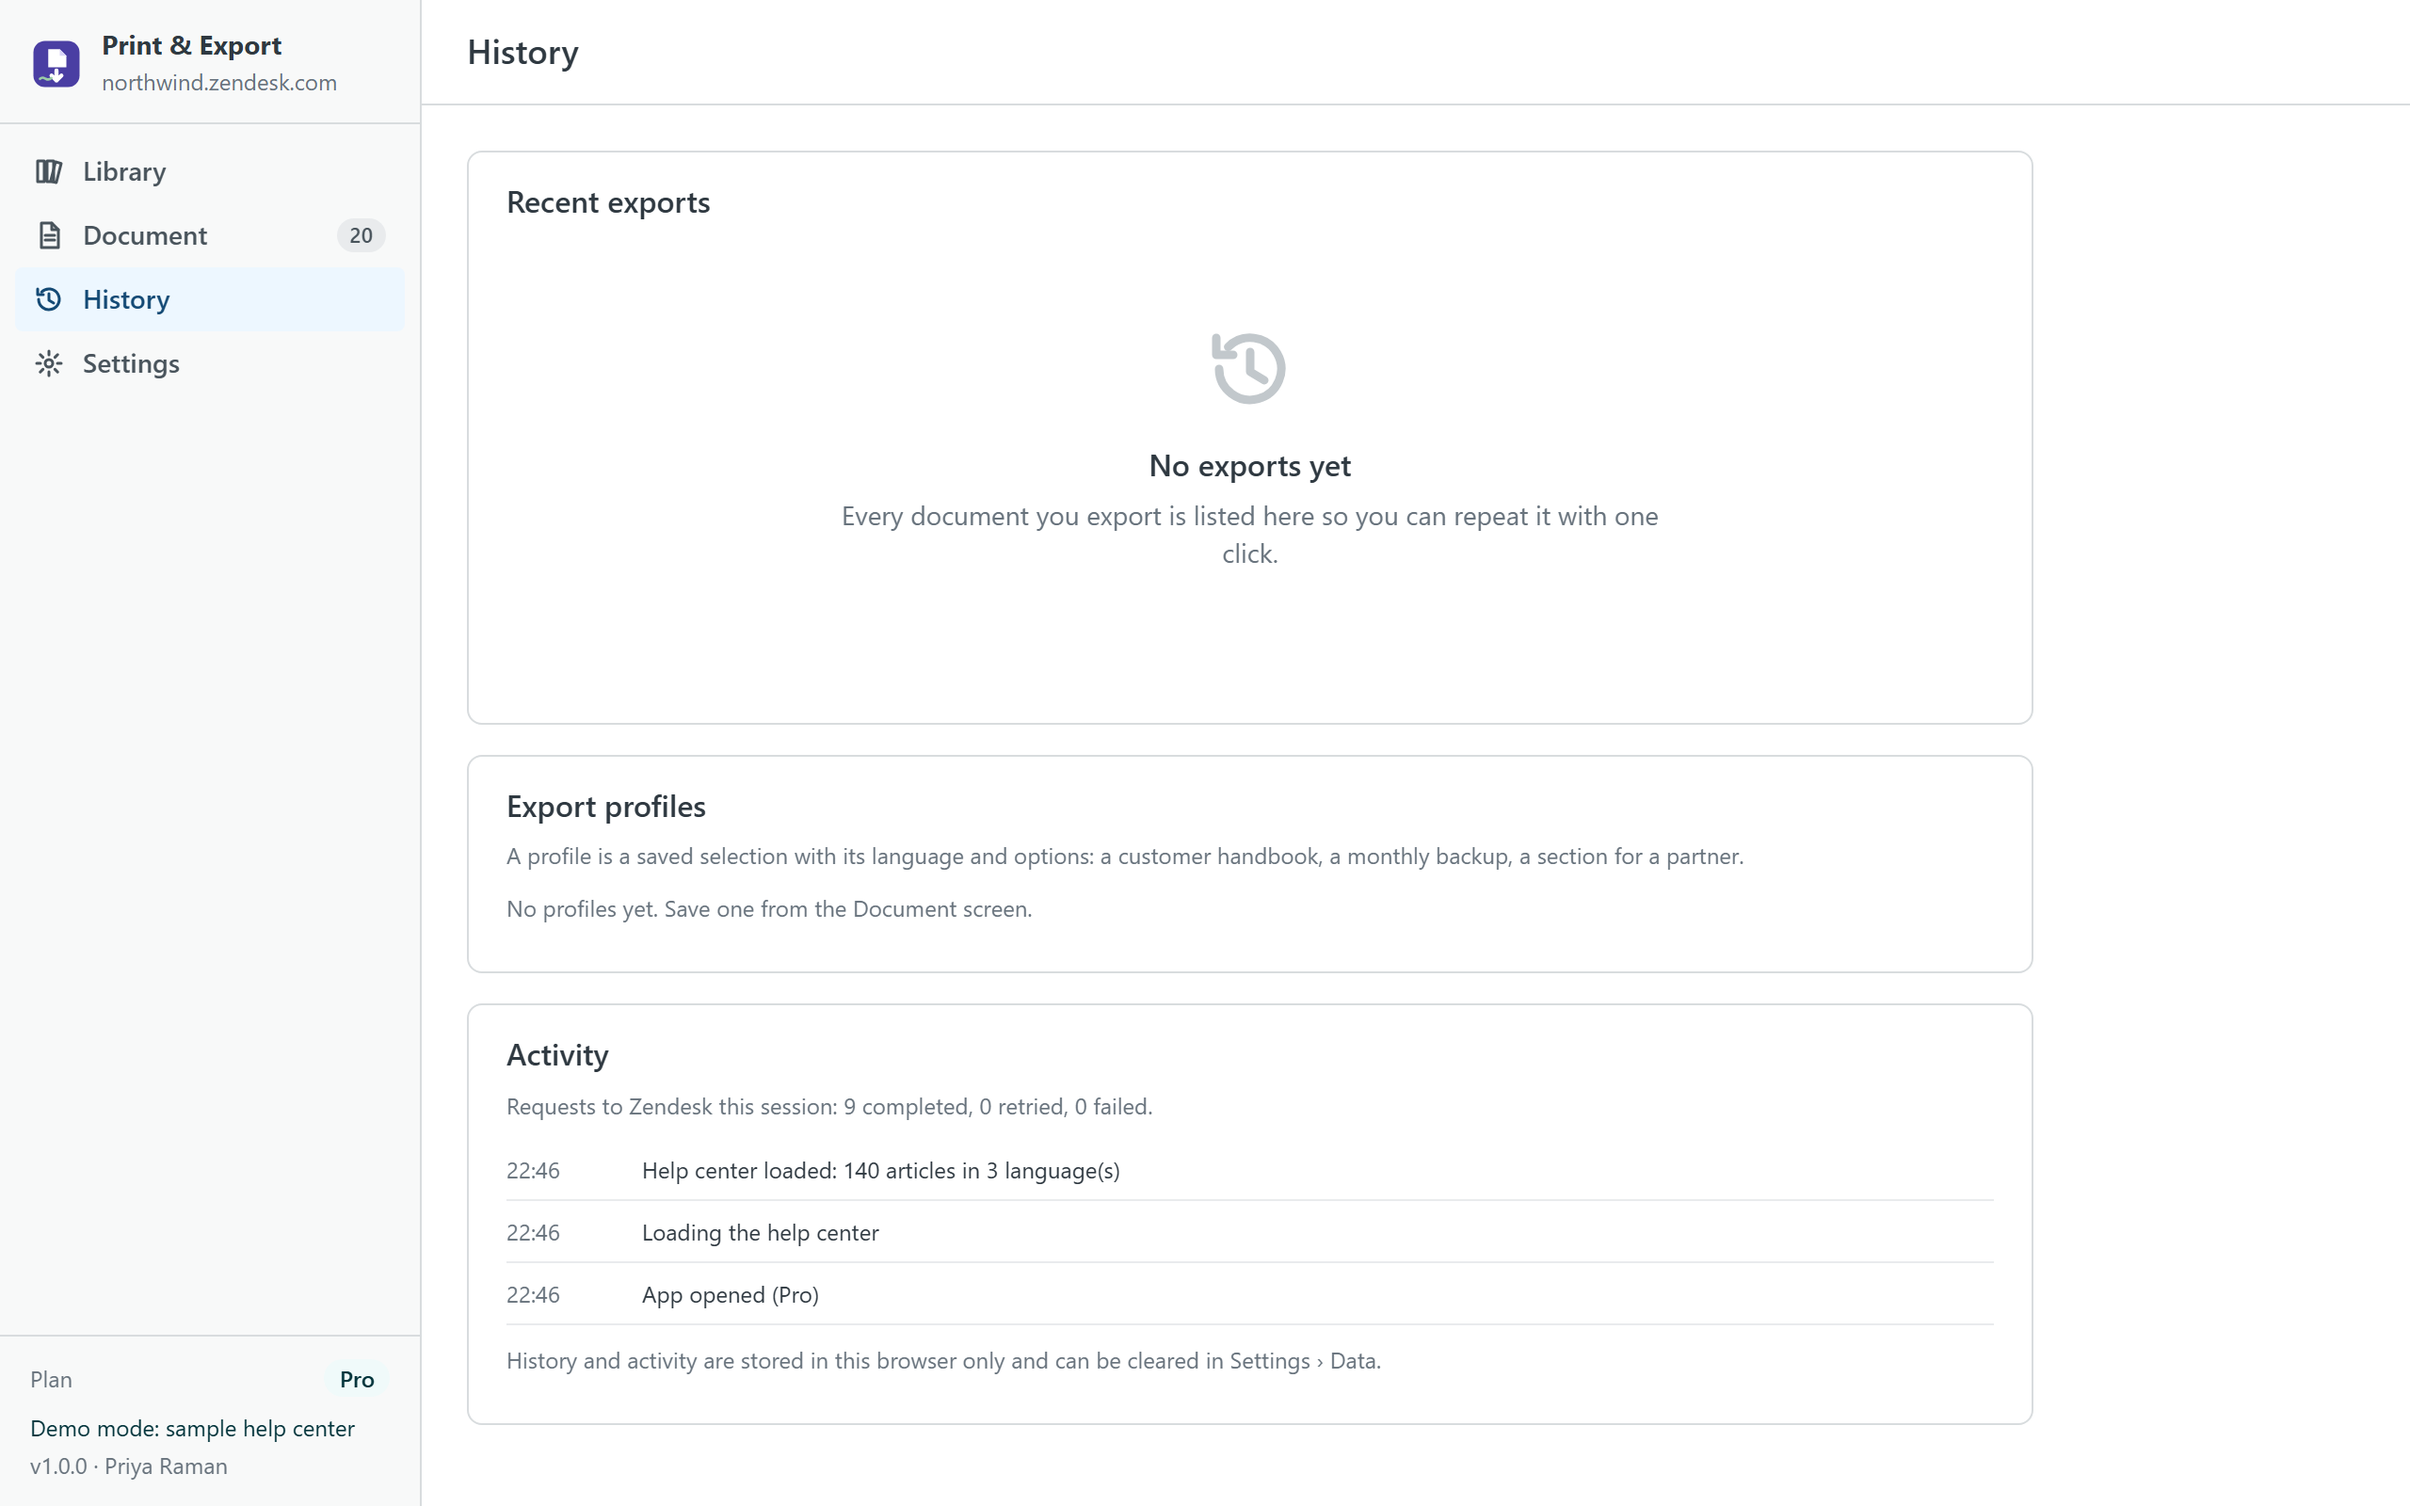
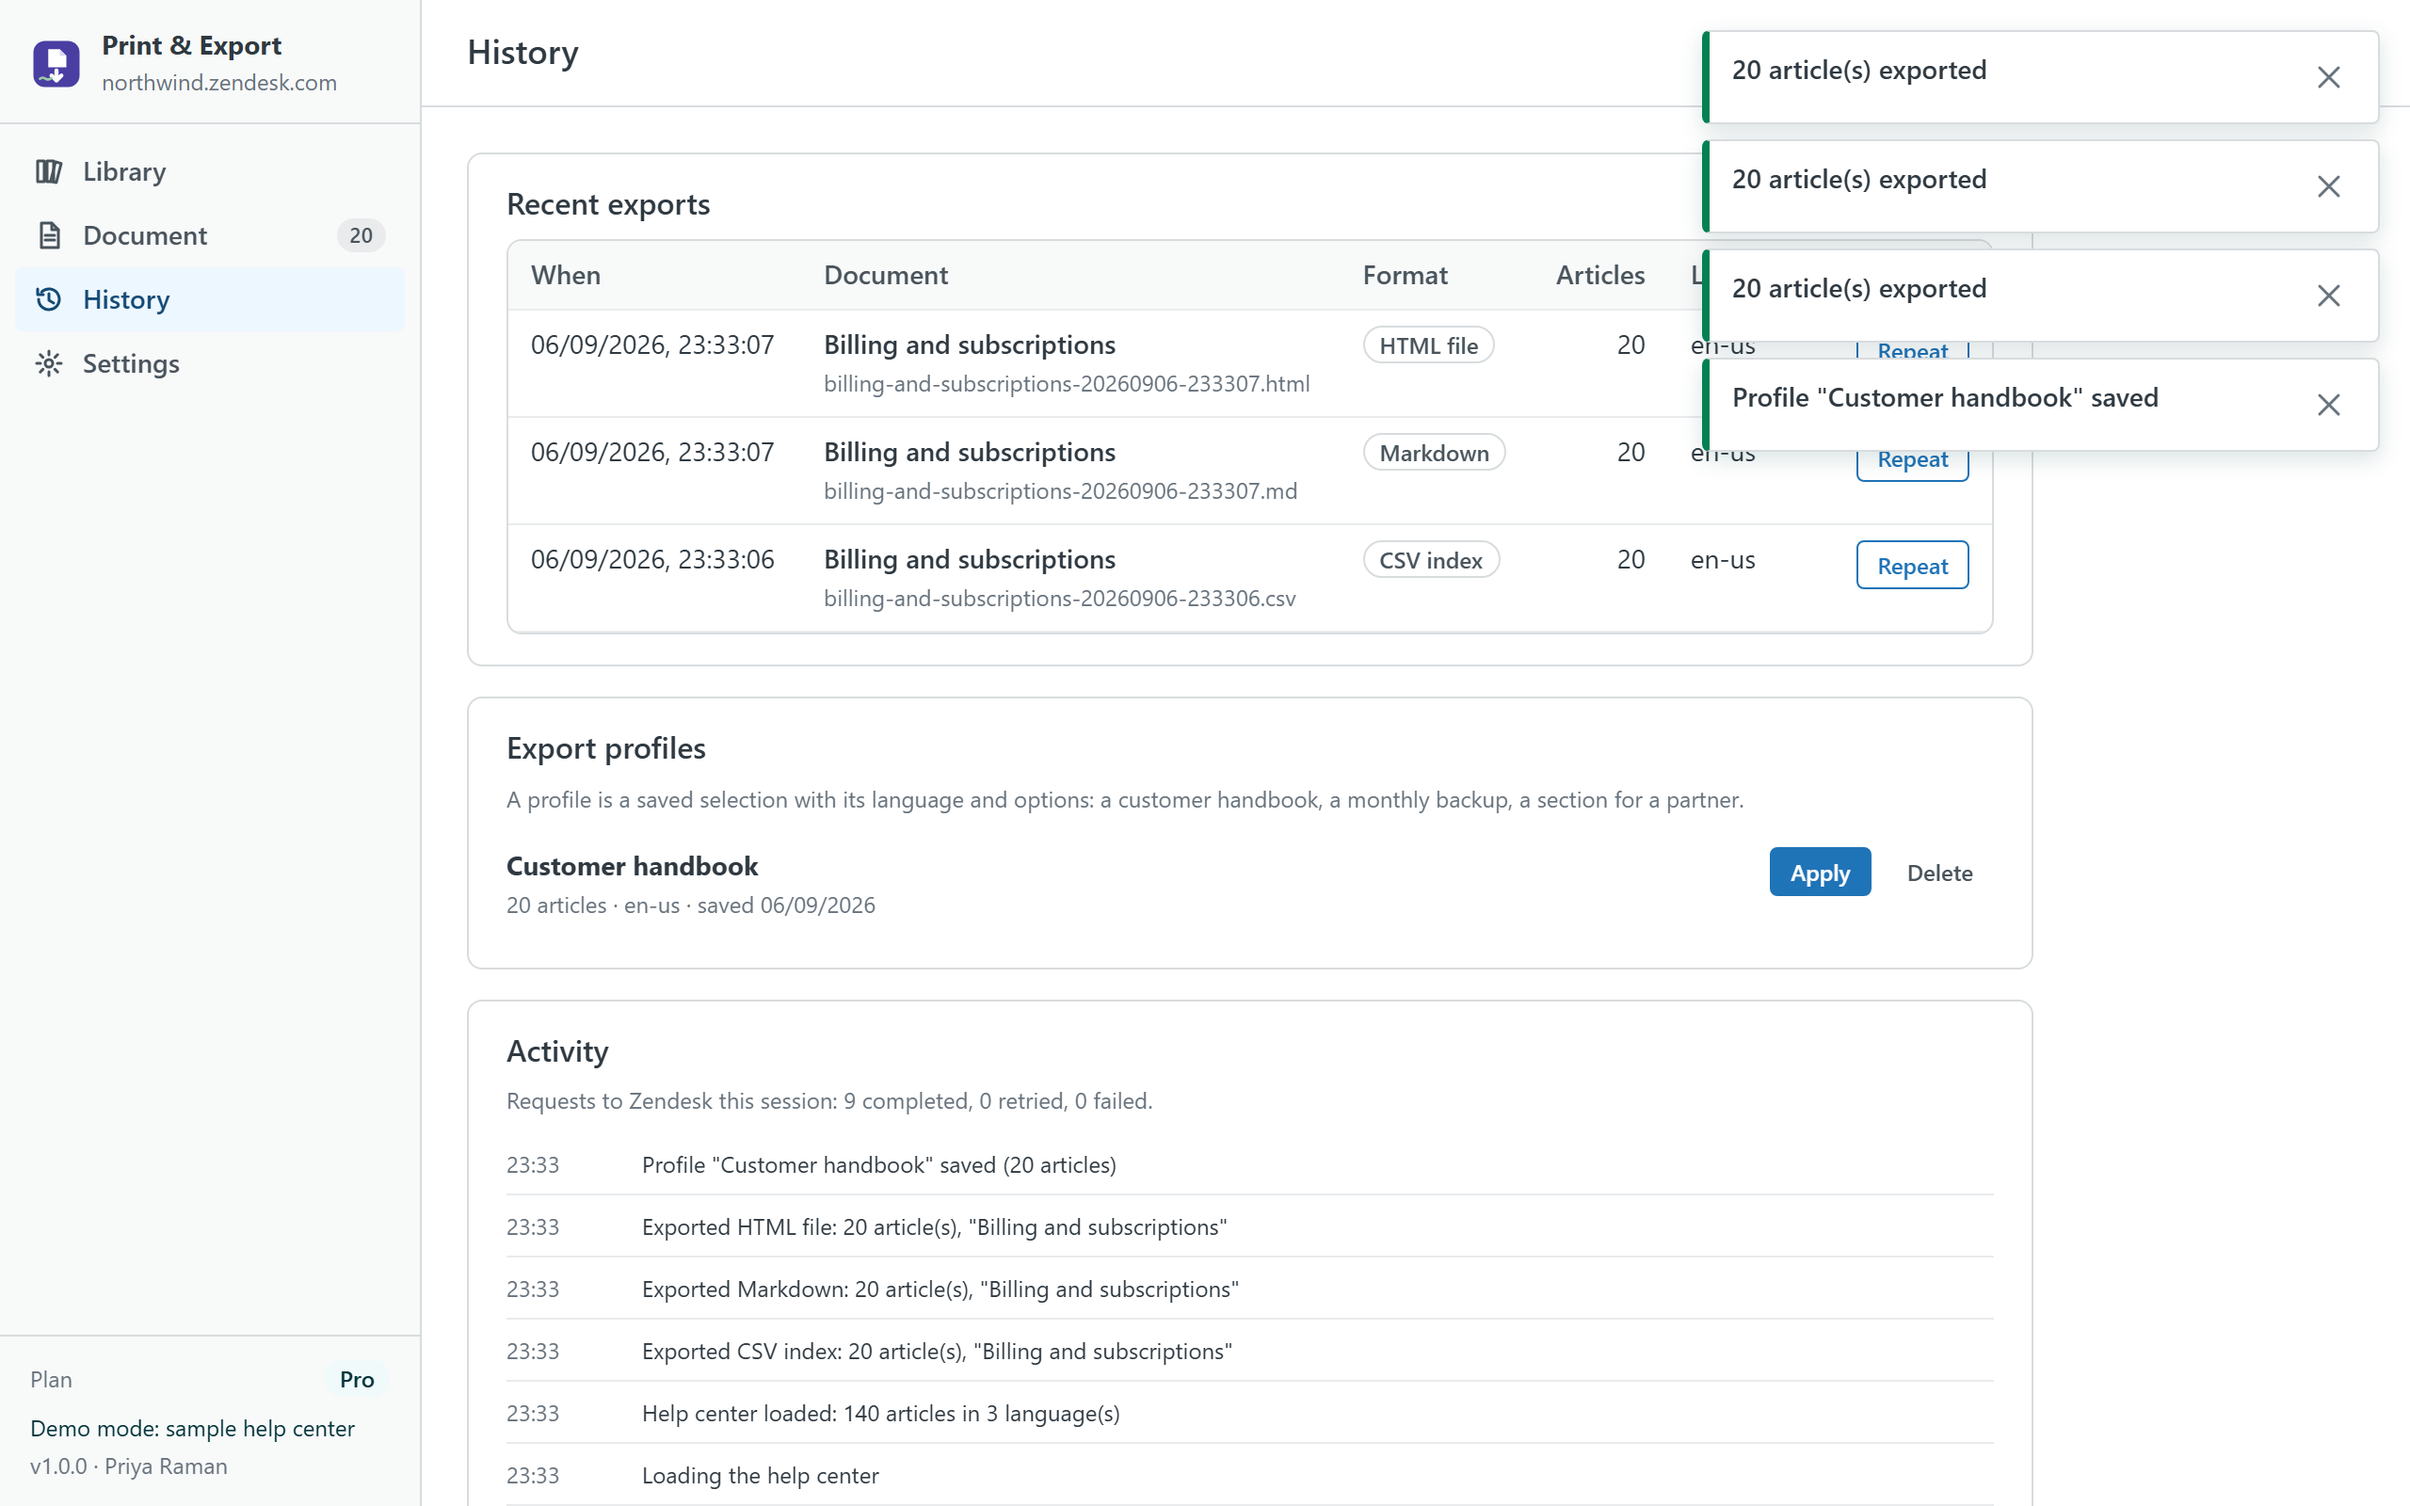
Add Help Center Find & Replace page, cross-links and sitemap entry

diff --git a/find-replace/index.html b/find-replace/index.html
@@ -1,0 +1,116 @@
+<!doctype html>
+<html lang="en">
+<head>
+<meta charset="utf-8">
+<meta name="viewport" content="width=device-width, initial-scale=1">
+<title>Help Center Find &amp; Replace, bulk find and replace for Zendesk articles | Help Center Doctor</title>
+<meta name="description" content="Help Center Find & Replace searches and replaces text, links and images across every Zendesk help center article and language, with a preview of each change, a snapshot before writing and one-click undo.">
+<link rel="stylesheet" href="../assets/site.css">
+<link rel="icon" href="../assets/logo.svg" type="image/svg+xml">
+<link rel="canonical" href="https://helpcenterdoctor.app/find-replace/">
+<meta property="og:type" content="website">
+<meta property="og:title" content="Help Center Find &amp; Replace for Zendesk">
+<meta property="og:description" content="Find and replace text, links and images in every article, with preview and undo. Free for small runs, Pro for whole help centers.">
+<meta property="og:image" content="https://helpcenterdoctor.app/assets/logo.png">
+<meta property="og:url" content="https://helpcenterdoctor.app/find-replace/">
+<meta name="twitter:card" content="summary">
+</head>
+<body>
+<a class="skip-link" href="#main">Skip to content</a>
+<header class="site-header">
+  <div class="container header-inner">
+    <a class="brand" href="../"><img src="../assets/logo.svg" alt="" width="32" height="32">Help Center Doctor</a>
+    <button class="nav-toggle" type="button" aria-expanded="false" aria-controls="site-nav">
+      <span class="sr-only">Menu</span>
+      <svg class="icon-open" viewBox="0 0 24 24" fill="none" stroke="currentColor" stroke-width="2" stroke-linecap="round" aria-hidden="true"><path d="M3 6h18M3 12h18M3 18h18"/></svg>
+      <svg class="icon-close" viewBox="0 0 24 24" fill="none" stroke="currentColor" stroke-width="2" stroke-linecap="round" aria-hidden="true"><path d="M6 6l12 12M18 6L6 18"/></svg>
+    </button>
+    <nav class="site-nav" id="site-nav" aria-label="Main">
+      <ul>
+        <li><a href="../features/">Features</a></li>
+        <li><a href="../pricing/">Pricing</a></li>
+        <li><a href="../docs/">Docs</a></li>
+        <li><a href="../compare/">Compare</a></li>
+        <li><a href="../support/">Support</a></li>
+        <li><a class="btn btn-primary" href="../demo/index.html?hcd_mock=1">Try the demo</a></li>
+      </ul>
+    </nav>
+  </div>
+</header>
+
+<main id="main">
+  <section class="page-hero">
+    <div class="container">
+      <span class="eyebrow">App for Zendesk Support · Free and Pro</span>
+      <h1>Help Center Find &amp; Replace</h1>
+      <p class="lead">Rename a product, move to a new domain, update prices or legal wording in every help center article and language at once. Search with plain text or regular expressions, review each match with its context and a word-by-word diff, keep a snapshot, apply, and undo with one click. It runs in your browser with your own Zendesk permissions.</p>
+    </div>
+  </section>
+
+  <div class="container">
+    <div class="prose" style="padding: 40px 0 0;">
+      <p><img src="../assets/shots/find-replace/search.png" alt="The Search screen: query, options and filters on top, matching articles with context and diff below" width="1280" height="800" loading="lazy" style="border:1px solid #d8dcde;border-radius:8px;max-width:100%;height:auto"></p>
+
+      <h2>How a run works</h2>
+      <ol>
+        <li><strong>Search.</strong> Type what to find and what to replace it with. Match case, whole word and regular expressions with $1 groups are available. Narrow by category, section, label, status and language.</li>
+        <li><strong>Choose where.</strong> Visible text only (tags, attributes and link addresses are never touched), links and images (href and src, ideal for domain migrations) or the HTML source for power users.</li>
+        <li><strong>Review.</strong> Every matching translation is a row with its context and a diff of the replacement. Untick anything you want to keep.</li>
+        <li><strong>Apply.</strong> The preview dialog lists each change again; a snapshot of the previous version downloads and is kept in the browser before anything is written. Progress and per-article errors are reported, and requests are paced inside Zendesk's rate limits.</li>
+        <li><strong>Undo.</strong> Any run can be undone from History, or restored from the snapshot file on another computer.</li>
+      </ol>
+      <p><img src="../assets/shots/find-replace/apply.png" alt="The apply dialog listing each change with a diff, the content-blocks notice and the Apply button" width="1280" height="800" loading="lazy" style="border:1px solid #d8dcde;border-radius:8px;max-width:100%;height:auto"></p>
+
+      <h2>Plans</h2>
+      <table>
+        <thead><tr><th></th><th>Free</th><th>Pro · $19 per month per account</th></tr></thead>
+        <tbody>
+          <tr><td>Search and preview</td><td>Unlimited</td><td>Unlimited</td></tr>
+          <tr><td>Translations changed per run</td><td>5</td><td>500</td></tr>
+          <tr><td>Languages</td><td>Default language</td><td>All enabled languages</td></tr>
+          <tr><td>Where it replaces</td><td>Visible text</td><td>Visible text, links and images, HTML source</td></tr>
+          <tr><td>Regular expressions</td><td>—</td><td>✓</td></tr>
+          <tr><td>Snapshot before every run, undo, restore from file</td><td>✓</td><td>✓</td></tr>
+          <tr><td>Runs kept for undo</td><td>3</td><td>30</td></tr>
+          <tr><td>Saved searches</td><td>—</td><td>✓</td></tr>
+          <tr><td>Free trial</td><td></td><td>14 days</td></tr>
+        </tbody>
+      </table>
+      <p>Pro is billed through the Zendesk Marketplace per account, not per agent, and can be cancelled from Admin Center at any time.</p>
+
+      <h2>Safety</h2>
+      <ul>
+        <li>Nothing is written until you confirm in the preview, and what you see in the diff is exactly what is sent: the same engine builds the preview and the change.</li>
+        <li>A snapshot of every changed translation is saved before writing. Undo puts the previous version back; the snapshot file also works with Restore on any computer.</li>
+        <li>Agents whose role cannot edit articles can search and preview but never apply.</li>
+        <li>Articles that use content blocks are flagged: rewriting a body detaches its blocks, which is how the Zendesk API works and cannot be avoided by any app.</li>
+      </ul>
+
+      <h2>Privacy</h2>
+      <p>The app has no server. Articles are read and written through the Zendesk API with the signed-in agent's session. The article cache, the runs with their snapshots, saved searches and settings live in the browser's local storage on the agent's computer and can be cleared from Settings. Nothing is sent to the developer or to any third party; there are no analytics, cookies or AI services. The same <a href="../privacy/">privacy policy</a> and <a href="../terms/">terms</a> as Help Center Doctor apply.</p>
+
+      <h2>Install</h2>
+      <ol>
+        <li>Open the listing on the Zendesk Marketplace (link added once the listing is approved), click <strong>Install</strong> and choose a plan. You need to be a Zendesk admin.</li>
+        <li>Choose the roles or groups that may use the app, then click <strong>Install</strong>.</li>
+        <li>In Zendesk Support, open <strong>Find &amp; Replace</strong> from the left navigation bar and click <strong>Load help center</strong>.</li>
+      </ol>
+
+      <h2>Frequently asked questions</h2>
+      <p><strong>Can it break my articles?</strong> In the default mode it only edits the text people read, never tags or attributes. Links and images mode only edits addresses. HTML source mode can change markup, which is why it shows a warning and a diff for every article. Every run has a snapshot and Undo.</p>
+      <p><strong>Does it handle translations?</strong> Yes. Each language is a separate row; Pro searches every enabled language, Free the default one.</p>
+      <p><strong>How fast is it?</strong> A 5,000-article, three-language help center loads in a couple of seconds and a search over all 15,000 translations answers in about six seconds. Writes go one request per translation, paced to Zendesk's limits.</p>
+      <p><strong>Also from the same developer:</strong> <a href="../">Help Center Doctor</a> finds and fixes broken links, missing images, stale content and structure problems; <a href="../print-export/">Help Center Print &amp; Export</a> turns articles into PDF, Word, HTML, Markdown, ZIP and CSV; <a href="../link-checker/">Help Center Link Checker</a> is the free link checker.</p>
+      <p><strong>Support:</strong> <a href="mailto:support@helpcenterdoctor.app">support@helpcenterdoctor.app</a>, answered within one business day.</p>
+    </div>
+  </div>
+</main>
+
+<footer class="site-footer">
+  <div class="container footer-inner">
+    <div>© 2026 Help Center Doctor · <a href="../privacy/">Privacy</a> · <a href="../terms/">Terms</a> · <a href="../support/">Support</a> · <a href="../changelog/">Changelog</a></div>
+  </div>
+</footer>
+<script src="../assets/site.js"></script>
+</body>
+</html>

diff --git a/link-checker/index.html b/link-checker/index.html
@@ -62,7 +62,7 @@
       <p>It never changes your help center. When you want to replace or remove links in bulk, add missing alt text, find and replace across articles, run bulk actions or print documents, <a href="../">Help Center Doctor</a> does all of that from the same scan, with a preview, a snapshot and undo. Both apps are built from the same engine by the same developer.</p>
 
       <h2>Also from the same developer</h2>
-      <p><a href="../print-export/">Help Center Print &amp; Export</a> prints, saves as PDF or exports any part of your help center to Word, HTML, Markdown, ZIP and CSV. Free for single articles, Pro for whole sections and categories.</p>
+      <p><a href="../print-export/">Help Center Print &amp; Export</a> prints, saves as PDF or exports any part of your help center to Word, HTML, Markdown, ZIP and CSV. Free for single articles, Pro for whole sections and categories. <a href="../find-replace/">Help Center Find &amp; Replace</a> renames products, migrates domains and fixes wording in every article with preview and undo.</p>
 
       <h2>Privacy</h2>
       <p>The app has no server. Articles are read with the signed-in agent's session through the Zendesk API; the scan cache and link-check results live in the browser's local storage on the admin's computer and can be cleared from Settings. Nothing is sent to the developer or to any third party, and there are no analytics, cookies or AI services. The same <a href="../privacy/">privacy policy</a> and <a href="../terms/">terms</a> as Help Center Doctor apply.</p>

diff --git a/print-export/index.html b/print-export/index.html
@@ -95,7 +95,7 @@
       <p><strong>How big can a document be?</strong> Up to 500 articles per document on Pro. A 150-article HTML file builds in under a second; Word files with many images take longer and can be large.</p>
       <p><strong>Will it slow down my agents?</strong> No. Loading uses about one request per 100 articles, well inside Zendesk's limits, and only while the app is open.</p>
       <p><strong>What about restricted articles or images?</strong> The app only sees what the signed-in agent can see. Images that cannot be fetched stay as links.</p>
-      <p><strong>Also from the same developer:</strong> <a href="../">Help Center Doctor</a> finds and fixes broken links, missing images, stale content and structure problems; <a href="../link-checker/">Help Center Link Checker</a> is the free link checker.</p>
+      <p><strong>Also from the same developer:</strong> <a href="../">Help Center Doctor</a> finds and fixes broken links, missing images, stale content and structure problems; <a href="../find-replace/">Help Center Find &amp; Replace</a> renames, migrates and fixes wording across every article with preview and undo; <a href="../link-checker/">Help Center Link Checker</a> is the free link checker.</p>
       <p><strong>Support:</strong> <a href="mailto:support@helpcenterdoctor.app">support@helpcenterdoctor.app</a>, answered within one business day.</p>
     </div>
   </div>
